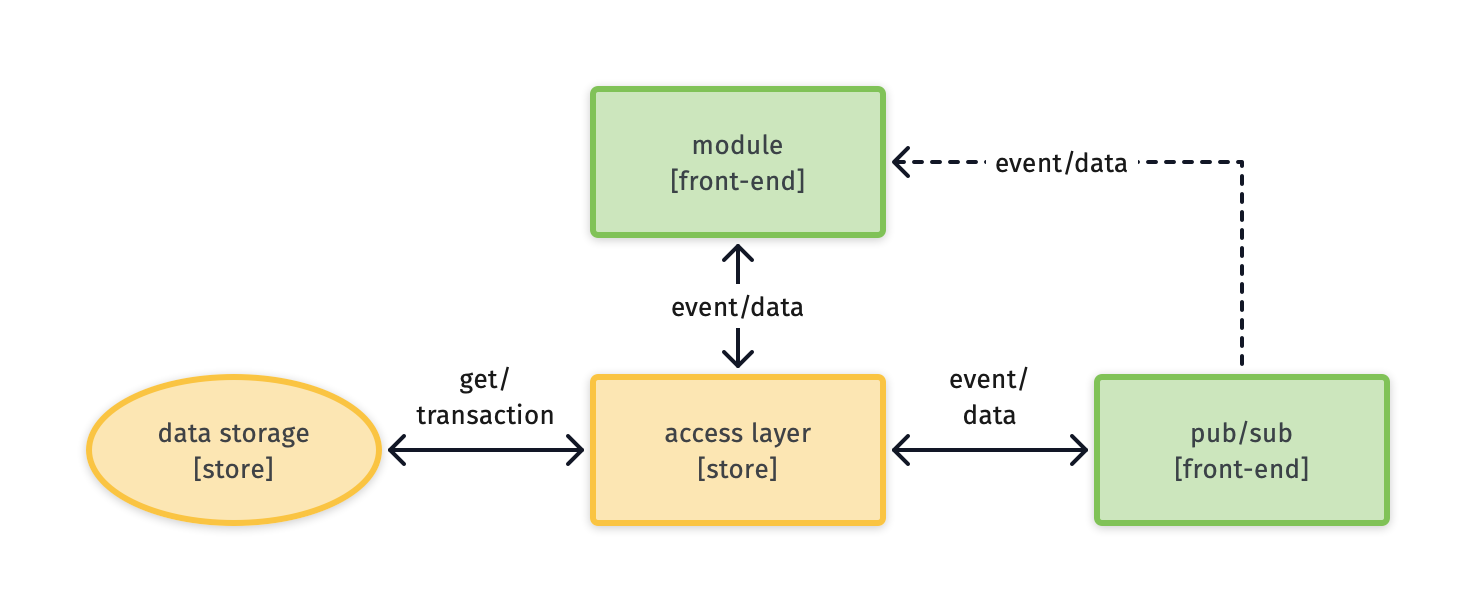
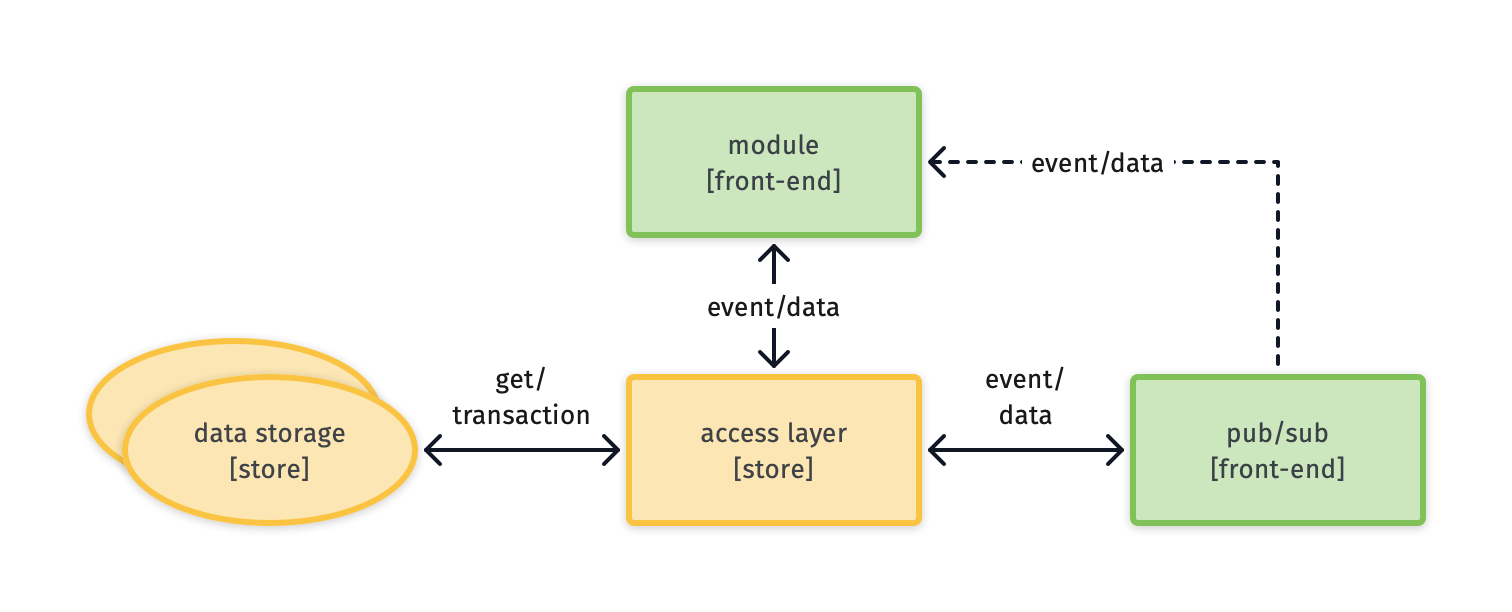
added that the data access layer can be connected to multiple stores

diff --git a/README.md b/README.md
@@ -57,7 +57,7 @@ Large applications use the store for global state management. The recommendation
 - It stores data in a **centralized** and normalizes the data, i.e. nesting of relational data is not allowed.
 - It is the owner of the data shape and mutations to increase resilience, i.e. it is **event-driven** and **immutable**.
 
-To follow the principles of this architecture, it uses an **access layer**. This _element_ decouples the state interface, allowing for better composability. Store events (`get`, `set`, `update`, or `remove`) can be defined and invoked on a module-level. The access layer handles these events and applies them to the **data storage**, as visualized in the _dynamic diagram_ shown below.
+To follow the principles of this architecture, it uses an **access layer**. This _element_ is an [*facade*](https://en.wikipedia.org/wiki/Facade_pattern) and decouples the state interface, allowing for better composability. Store events (`get`, `set`, `update`, or `remove`) can be defined and invoked on a module-level. The access layer handles these events and applies them to the **data storage**, as visualized below. Optionally, the access layer can be connected to multiple data storages.
 
 ![](/images/c4-store-element-diagram.png)
 
@@ -77,7 +77,7 @@ The API gateway enables a consistent way to connect various external sources or 
 
 ![](/images/c4-gateway-element-diagram.png)
 
-Each request, regardless of the related external source, first goes through the gateway [*facade*](https://en.wikipedia.org/wiki/Facade_pattern). It allows for the sharing of generic logic between different clients of different external sources. This facade handles:
+Each request, regardless of the related external source, first goes through a *facade*. It allows for the sharing of generic logic between different clients of different external sources. This facade handles:
 
 - Interact with a _proxy_ cache or the application store, by getting and setting data. The gateway sets the lifespan of the cached data, using `state-while-revalidate` pattern.
 - [*circuit breaking*](https://en.wikipedia.org/wiki/Circuit_breaker_design_pattern) to ensure only external APIs are called when they are available. If it receives a server error, it bounces future outgoing requests for a limited time, allowing the API to restart itself.
